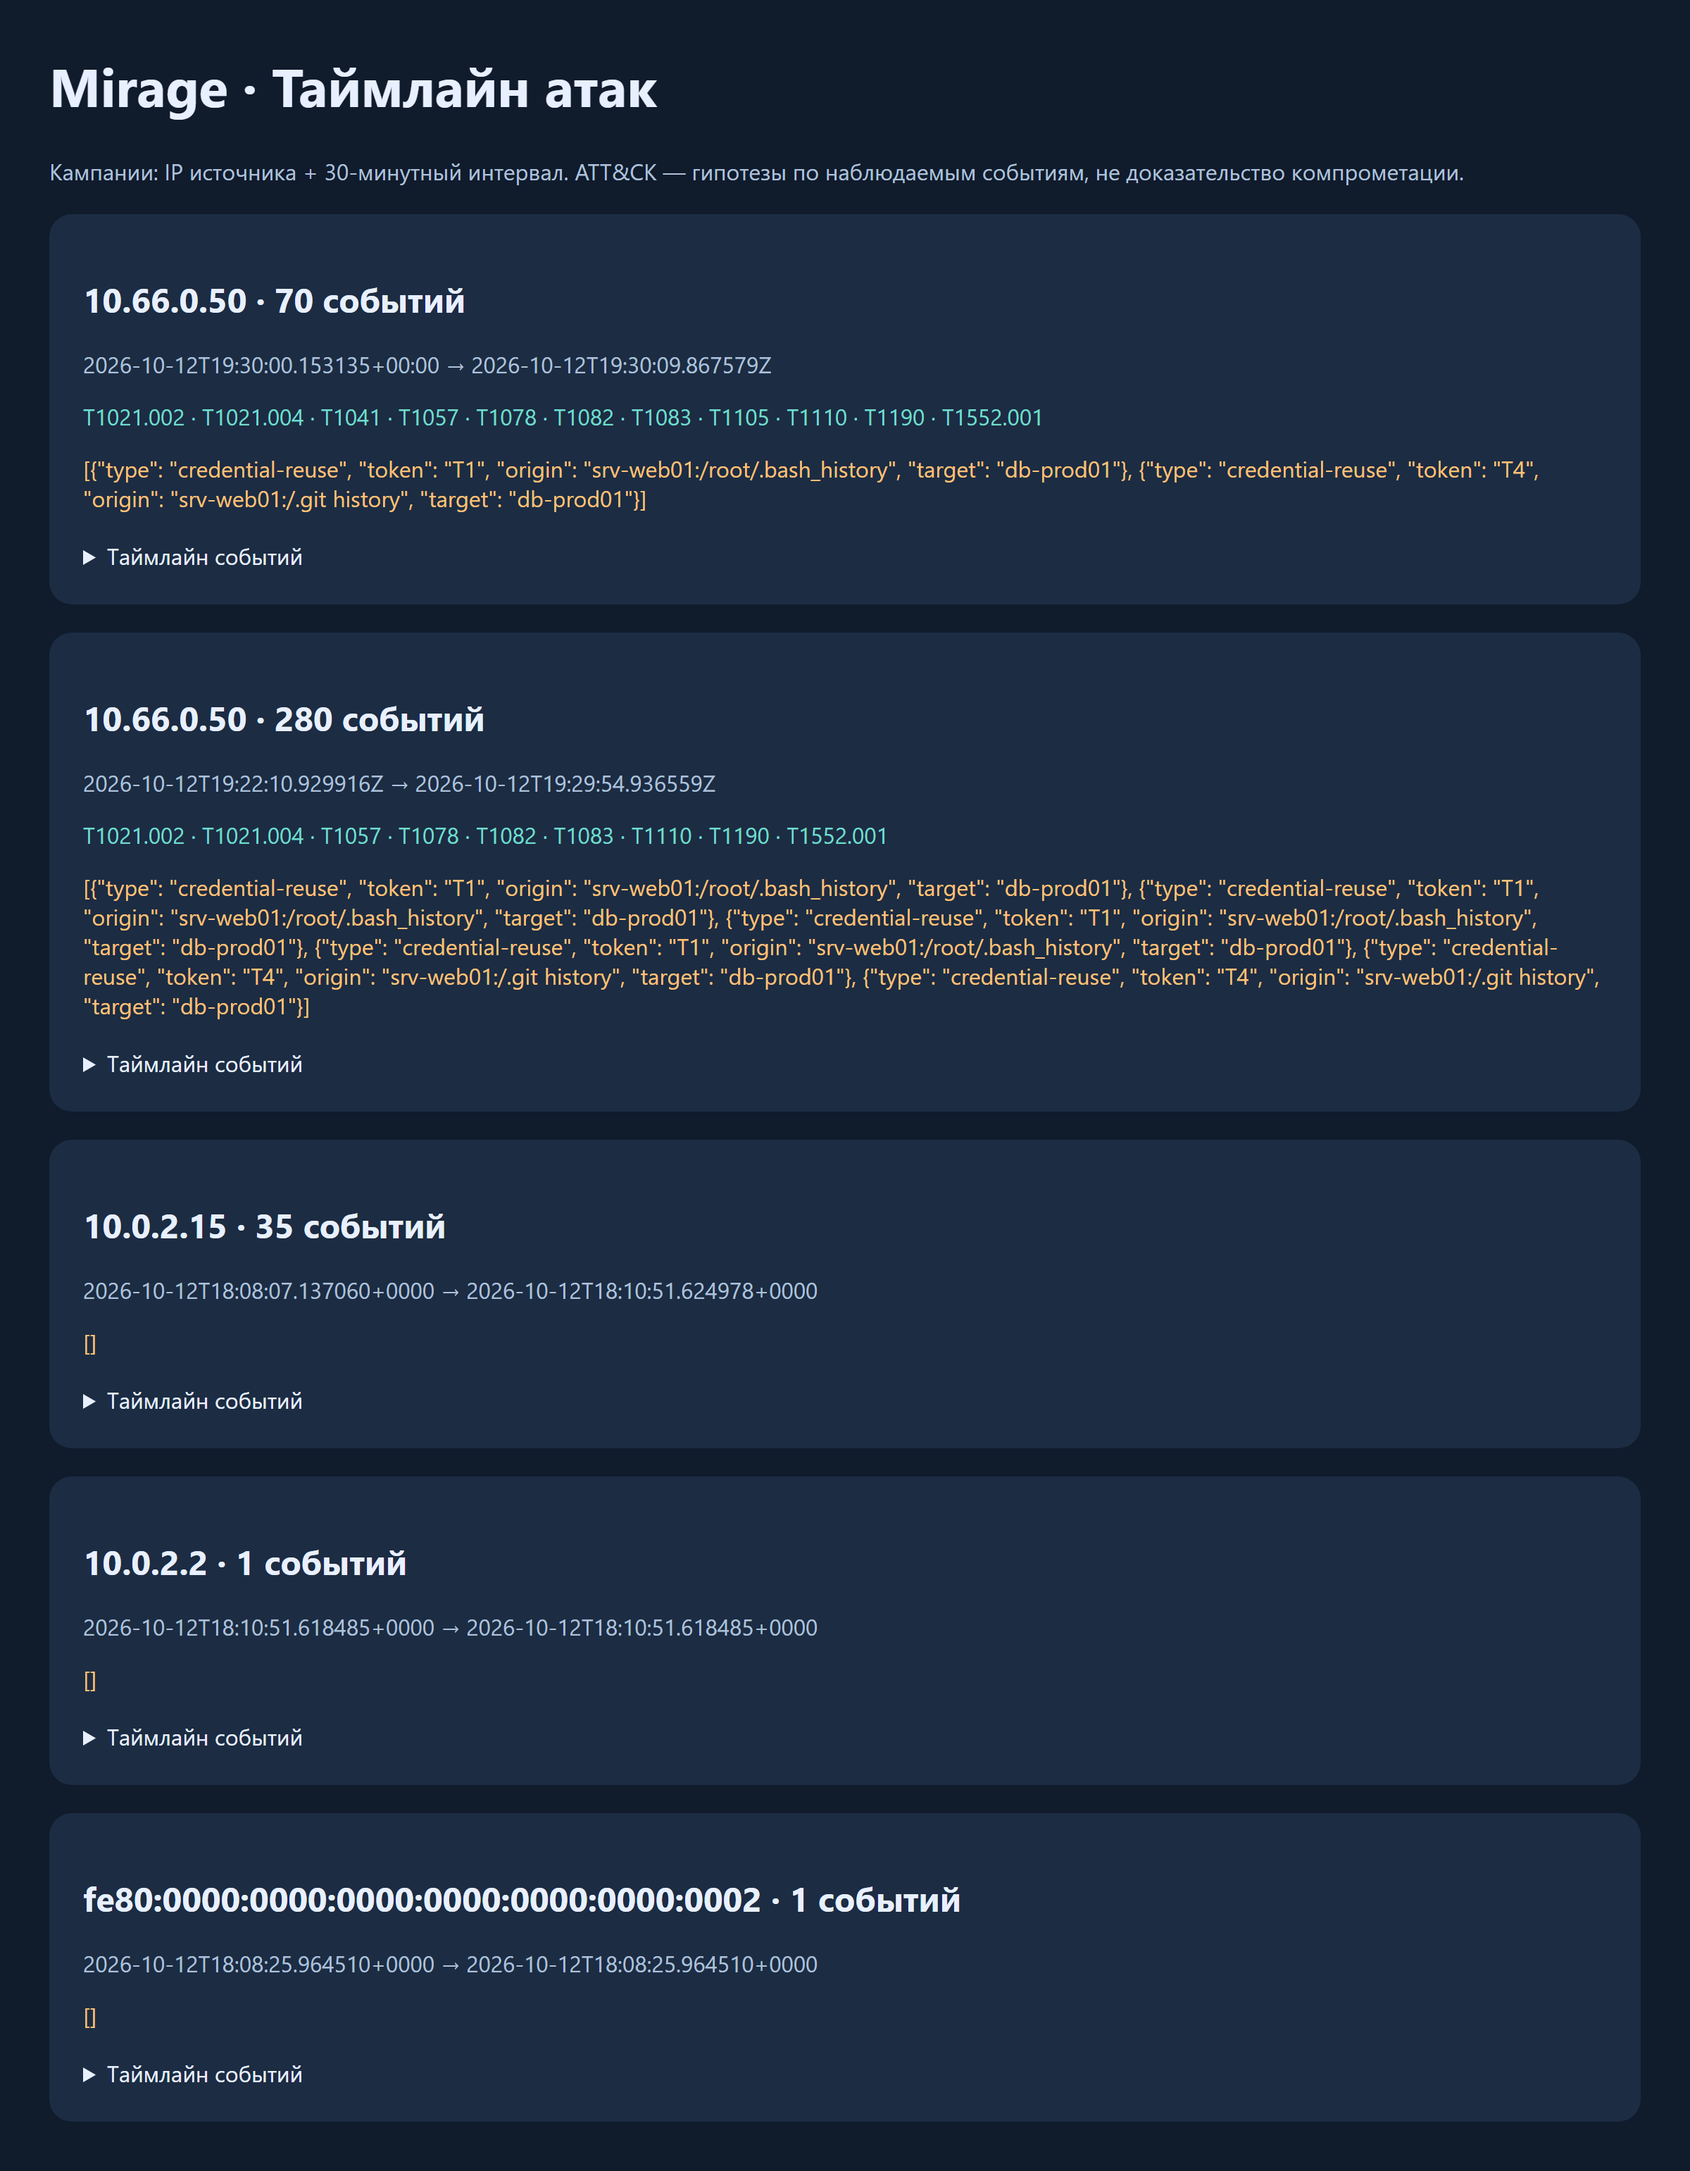
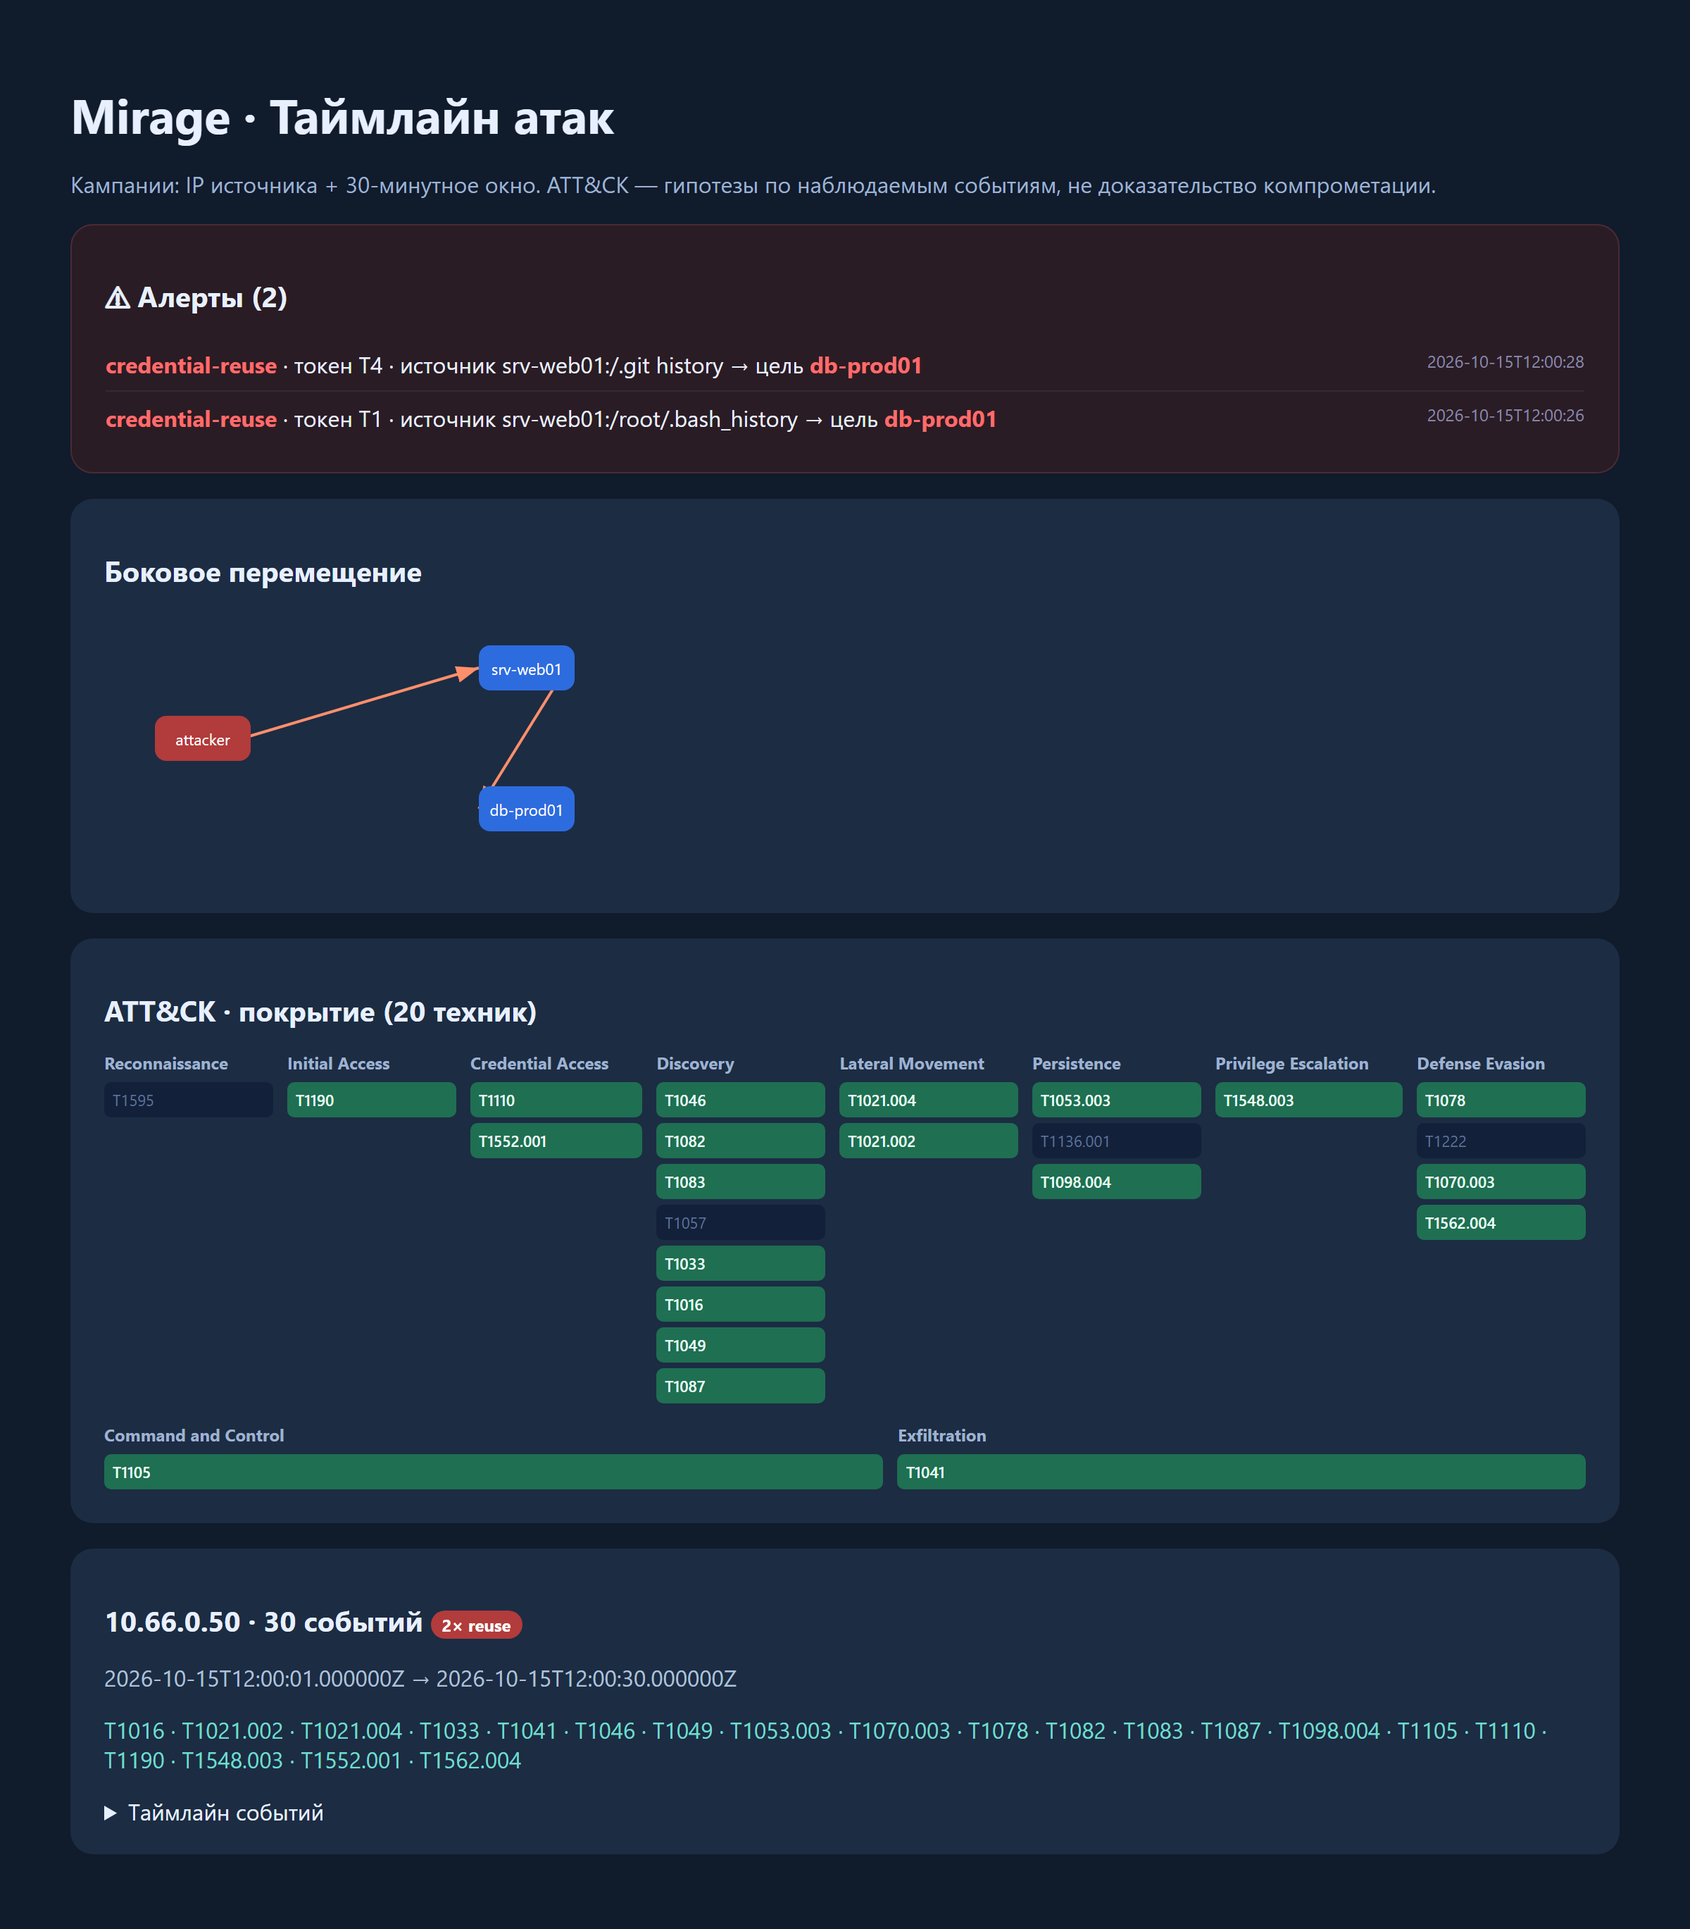
docs: document enriched correlator (alerts, lateral graph, ATT&CK matrix), IDS/JA3 dashboards and CI; refresh correlator screenshots; shots.py target selection

diff --git a/scripts/shots.py b/scripts/shots.py
@@ -12,7 +12,7 @@ from pathlib import Path
 from playwright.sync_api import sync_playwright
 
 MGMT = os.getenv("MGMT_IP", "192.168.56.10")
-ES_PW = os.environ["ELASTIC_PASSWORD"]
+ES_PW = os.getenv("ELASTIC_PASSWORD", "")   # only needed for the Kibana shot
 CK = os.environ["CORRELATOR_KEY"]
 OUT = Path(__file__).resolve().parent.parent / "docs" / "screenshots"
 OUT.mkdir(parents=True, exist_ok=True)
@@ -83,10 +83,15 @@ def shot_kibana(browser):
 
 
 def main():
+    # Optional argv picks targets: correlator | timeline | kibana (default: all).
+    # MGMT_IP defaults to the management network but can point at a local instance.
+    targets = {'correlator': shot_correlator, 'timeline': shot_campaign_timeline,
+               'kibana': shot_kibana}
+    chosen = [targets[a] for a in sys.argv[1:] if a in targets] or list(targets.values())
     with sync_playwright() as p:
         browser = p.chromium.launch()
         ok = True
-        for fn in (shot_correlator, shot_campaign_timeline, shot_kibana):
+        for fn in chosen:
             try:
                 fn(browser)
             except Exception as e:
